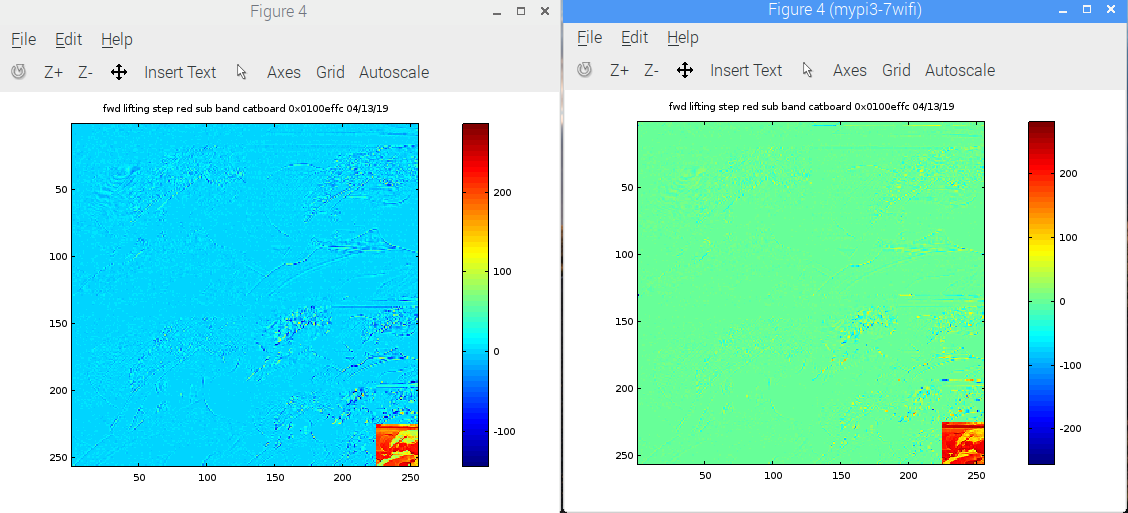
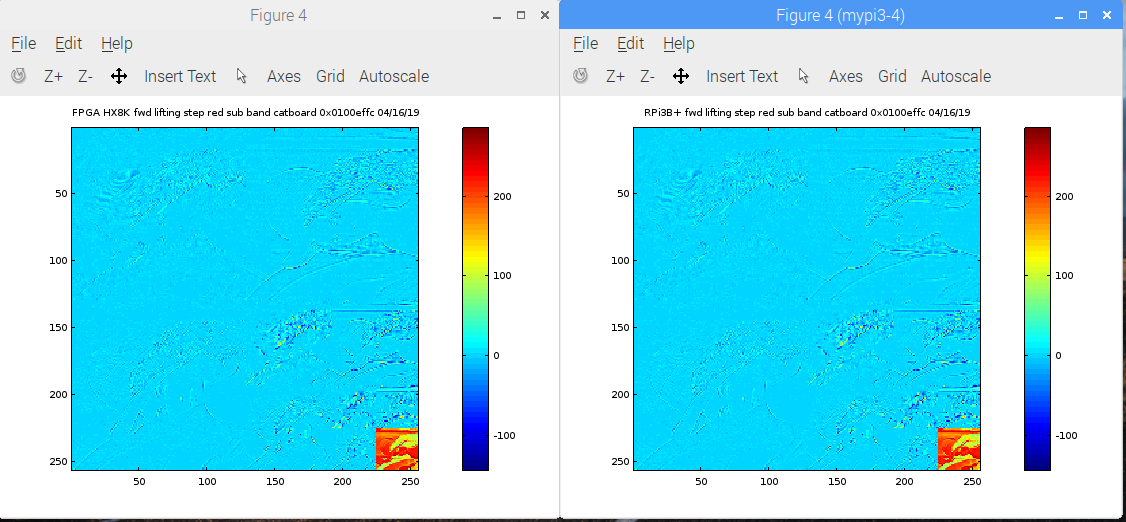
Running on the RPi3B+ was in error since the buf_red was offset by 5 values in with code to debug the input values.
-       fread(ptrs.inpbuf,sizeof(int),65536,inptr);
-       for(i=0;i<5;i++) {
-               printf("ptrs.inpbuf = 0x%x *ptrs.inpbuf = 0x%x\n",ptrs.inpbuf,*ptrs.inpbuf);
-               buf_red++;
-
-       }
+       else fread(ptrs.inpbuf,sizeof(int),65536,inptr);
+
od -x rgb_pack.bin | less
0000000 247c 0e22 2083 0de2 1475 0e22 207b 0e32
0000020 287a 0e12 187c 0e22 1870 0e02 0c75 0dd2
hexedit output
00000000   7C 24 22 0E  83 20 E2 0D  75 14 22 0E  7B 20 32 0E  |$".. ..u.".{ 2.
00000010   7A 28 12 0E  7C 18 22 0E  70 18 02 0E  75 0C D2 0D  z(..|.".p...u...

diff --git a/sw/host/rgb.m b/sw/host/rgb.m
@@ -6,19 +6,19 @@ fid = fopen('dwt.bin','r'); im4 = fread(fid, [256,inf], 'int32'); fclose(fid);
 figure;
 imagesc(im1);
 colorbar;
-title "red split from packed rgb catboard 0x0100effc 04/13/19"
+title "red split from packed rgb catboard 0x0100effc 04/16/19"
 
 figure;
 imagesc(im2);
 colorbar;
-title "grn split from packed rgb catboard 0x0100effc 04/13/19"
+title "grn split from packed rgb catboard 0x0100effc 04/16/19"
 
 figure;
 imagesc(im3);
 colorbar;
-title "blu split from packed rgb catboard 0x0100effc 04/13/19"
+title "blu split from packed rgb catboard 0x0100effc 04/16/19"
 
 figure;
 imagesc(im4);
 colorbar;
-title "fwd lifting step red sub band catboard 0x0100effc 04/13/19"
+title "FPGA HX8K fwd lifting step red sub band catboard 0x0100effc 04/16/19"

diff --git a/sw/board/pi_jpeg.c b/sw/board/pi_jpeg.c
@@ -86,12 +86,8 @@ int main(int argc, char **argv) {
 		printf("Unle to open file!");
 		return 1;
 	}
-	fread(ptrs.inpbuf,sizeof(int),65536,inptr);
-	for(i=0;i<5;i++) {
-		printf("ptrs.inpbuf = 0x%x *ptrs.inpbuf = 0x%x\n",ptrs.inpbuf,*ptrs.inpbuf);
-		buf_red++;
-
-	} 
+	else fread(ptrs.inpbuf,sizeof(int),65536,inptr);
+ 
 	fclose(inptr);
 	
 	i = 65535;
